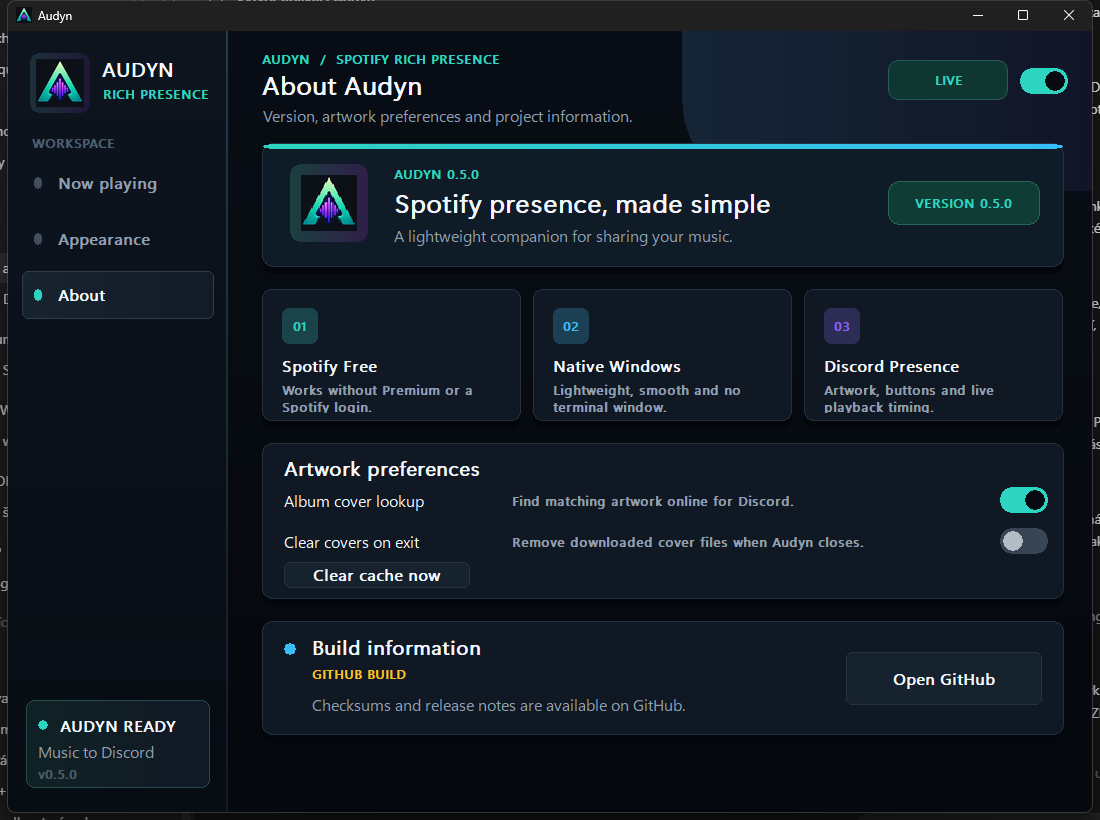
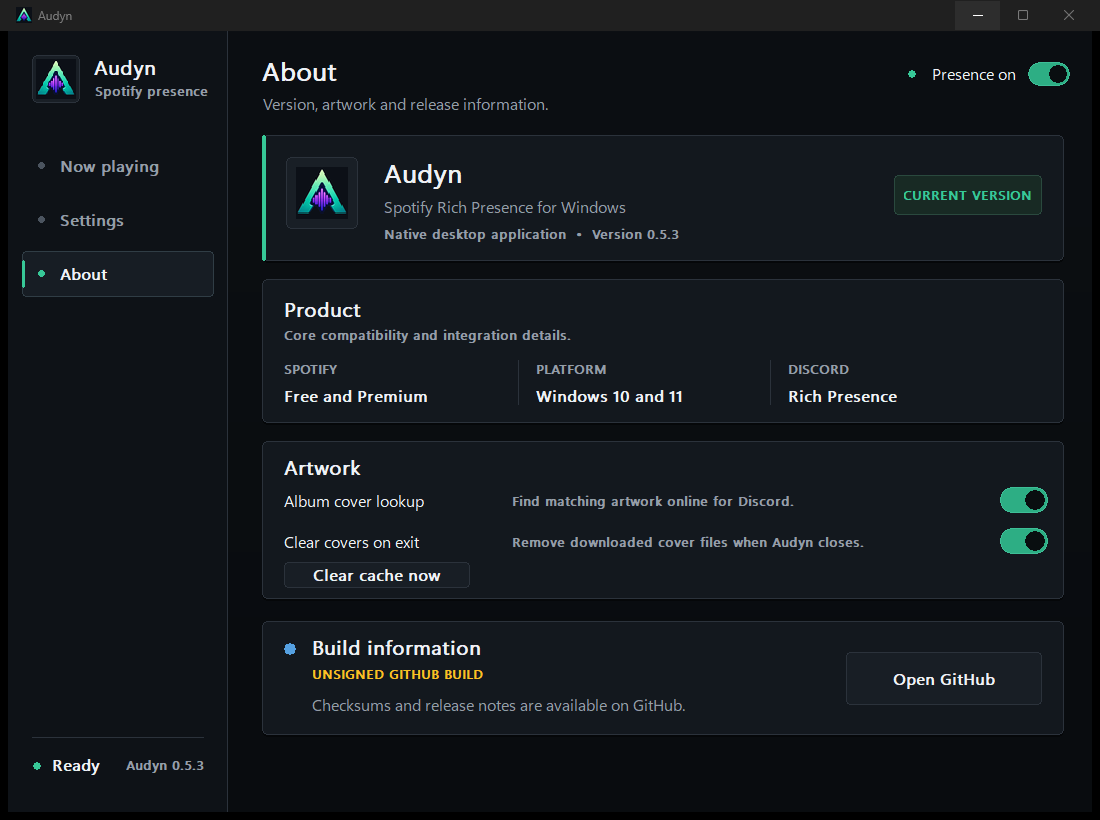
Add files via upload

diff --git a/LICENSE.md b/LICENSE.md
@@ -1,0 +1,117 @@
+# Audyn Proprietary Software License Agreement
+
+**License version 1.0 — effective 9 August 2026**  
+**Applies to Audyn 0.5.3 and later unless a release includes different terms**
+
+Copyright © 2026 rookeudev. All rights reserved.
+
+This is a proprietary license, not an open-source license. By downloading, installing, copying, executing, or otherwise using Audyn (the **Software**), you agree to these terms. If you do not agree, do not use the Software and delete every copy in your possession.
+
+## 1. Licensor and official project
+
+The licensor and copyright holder is **rookeudev** (the **Licensor**). The official project location is:
+
+<https://github.com/rookeudev/AUDYN>
+
+The Software includes the Audyn executable, user interface, artwork, logo, name, documentation, release archives, and any accompanying proprietary materials.
+
+## 2. Limited permission to use
+
+Subject to this agreement, the Licensor grants you a limited, personal, non-exclusive, non-transferable, non-sublicensable, and revocable license to:
+
+- download an official compiled release;
+- install and run the Software on Windows devices you control;
+- make one reasonable backup copy for your own use; and
+- publish truthful reviews or screenshots that do not misrepresent authorship, ownership, affiliation, or endorsement.
+
+No ownership right is transferred to you.
+
+## 3. Ownership and attribution
+
+Audyn and all associated intellectual-property rights remain the exclusive property of the Licensor and applicable third-party rightsholders.
+
+You must not:
+
+- claim, imply, or present Audyn, its design, code, logo, documentation, or releases as your own work;
+- claim to be the author, owner, official maintainer, publisher, or representative of Audyn;
+- remove, hide, replace, or falsify copyright, authorship, license, signature, version, repository, or attribution notices;
+- use the Audyn name, logo, visual identity, Discord Application ID, or substantially similar branding to impersonate the official project; or
+- suggest that a modified, repackaged, or unofficial copy is an official Audyn release.
+
+No trademark or branding license is granted except for the limited factual references allowed by this agreement.
+
+## 4. Prohibited copying and distribution
+
+Without prior written permission from the Licensor, you must not:
+
+- redistribute, mirror, re-upload, publish, bundle, repackage, sell, rent, lease, sublicense, or commercially exploit the Software;
+- include the Software in another product, installer, download portal, repository, application bundle, or commercial service;
+- distribute a modified executable, altered archive, removed license, changed checksum, or misleadingly renamed copy; or
+- provide the Software to another person as though you created, licensed, verified, or maintain it.
+
+Linking to the official repository or official release page is permitted.
+
+## 5. Source code, reverse engineering, and circumvention
+
+The source code and private build infrastructure are unpublished confidential proprietary materials. Receiving a compiled executable does not grant access to or rights in the source code.
+
+Except to the limited extent that applicable mandatory law expressly permits and does not allow contractual restriction, you must not:
+
+- reverse engineer, decompile, disassemble, decode, translate, reconstruct, or attempt to derive source code, algorithms, private build configuration, embedded identifiers, or non-public implementation details;
+- attach a debugger, instrument the process, dump protected runtime state, patch instructions, alter memory, hook functions, or use automated analysis for the purpose of deriving source code or defeating protections;
+- bypass, disable, remove, test for the purpose of circumvention, or interfere with integrity checks, process mitigations, advertisement filtering, fixed destinations, application identity, signature checks, or other technical restrictions;
+- extract or reuse proprietary assets, branding, embedded configuration, or implementation details in another project; or
+- use information obtained through prohibited analysis to create, market, or distribute a substantially similar or misleadingly compatible copy.
+
+Nothing in this agreement removes a lawful user's non-waivable rights. In particular, where mandatory law permits limited observation, testing, backup, error correction, or decompilation strictly necessary to achieve interoperability, those rights remain available only within the conditions and limits imposed by that law. This exception does not permit plagiarism, impersonation, redistribution, creation of an infringing substitute, or use beyond the lawful purpose.
+
+## 6. Runtime integrity events and local diagnostics
+
+Audyn may use process protections and local diagnostics to protect its operation. When technically detectable while the Software is running, events such as an attached debugger, runtime interference, integrity failure, unexpected modification, or a crash caused by tampering may be recorded locally with a timestamp and a general event category.
+
+These records:
+
+- are stored only in Audyn's local diagnostic files under `%LOCALAPPDATA%\Audyn`;
+- are not automatically transmitted to the Licensor;
+- do not intentionally include Spotify track titles, artist names, album names, passwords, or account tokens; and
+- may be provided to the Licensor only if the user chooses to share them for support or investigation.
+
+An offline copy of an executable cannot reliably detect that it is being inspected, copied, or decompiled. Audyn does not claim that every prohibited attempt can be detected or recorded. The absence of a record does not grant permission to violate this agreement.
+
+See [PRIVACY.md](PRIVACY.md) for the complete data-handling description.
+
+## 7. No account authority
+
+This license does not authorize anyone to request Audyn users' Spotify credentials, Discord credentials, OAuth tokens, passwords, personal data, or payment information. You must not use the Audyn name or branding for phishing, impersonation, credential collection, malware, surveillance, or any unlawful activity.
+
+## 8. Updates, availability, and termination
+
+The Licensor may update, replace, or discontinue the Software and may release future versions under revised terms. New terms do not retroactively change a copy that was distributed under a different accompanying license unless applicable law and a valid agreement allow that change.
+
+Your permission terminates automatically if you breach this agreement. Upon termination, you must stop using the Software and delete all copies under your control, except where retention is required by law.
+
+## 9. Third-party services
+
+Spotify, Discord, Deezer, Microsoft, GitHub, and other third parties operate under their own terms. This agreement grants no rights in their names, services, APIs, trademarks, or content. Audyn is independent and is not affiliated with, certified by, sponsored by, or endorsed by those parties.
+
+## 10. Disclaimer of warranty
+
+To the maximum extent permitted by applicable law, the Software is provided **“as is”** and **“as available,”** without warranties of any kind, whether express, implied, or statutory. The Licensor does not guarantee uninterrupted operation, compatibility, availability, error-free behavior, complete advertisement detection, or fitness for a particular purpose. Mandatory consumer rights remain unaffected.
+
+## 11. Limitation of liability
+
+To the maximum extent permitted by applicable law, the Licensor is not liable for indirect, incidental, special, consequential, or punitive damages, loss of data, loss of profits, account action by a third party, service interruption, or damage arising from misuse, unauthorized modification, unofficial redistribution, or inability to use the Software. Liability that cannot lawfully be excluded remains subject to applicable law.
+
+## 12. Governing law, severability, and entire agreement
+
+This agreement is governed by the laws of the Czech Republic, without removing mandatory consumer protections or non-waivable rights that apply to you. If a provision is held unenforceable, it will be limited or removed only to the minimum extent necessary, and the remaining provisions will continue in effect.
+
+This agreement and the documents it incorporates are the entire license for the accompanying proprietary release. A waiver or additional permission is valid only when provided in writing by the Licensor.
+
+## 13. Permissions and contact
+
+Requests for redistribution, commercial use, integration, source access, branding permission, or another license must be made through the official project:
+
+<https://github.com/rookeudev/AUDYN>
+
+**SPDX identifier:** `LicenseRef-Audyn-Proprietary-1.0`

diff --git a/README.md b/README.md
@@ -10,7 +10,7 @@
 </p>
 
 <p align="center">
-  <img alt="Audyn 0.5.2" src="https://img.shields.io/badge/Audyn-0.5.2-2DD4BF?style=flat-square">
+  <img alt="Audyn 0.5.3" src="https://img.shields.io/badge/Audyn-0.5.3-2DD4BF?style=flat-square">
   <img alt="Windows 10 and 11" src="https://img.shields.io/badge/Windows-10%20%7C%2011-177DDC?style=flat-square&logo=windows11&logoColor=white">
   <img alt="Spotify Free" src="https://img.shields.io/badge/Spotify-Free%20%7C%20Premium-1DB954?style=flat-square&logo=spotify&logoColor=white">
   <img alt="Discord Rich Presence" src="https://img.shields.io/badge/Discord-Rich%20Presence-5865F2?style=flat-square&logo=discord&logoColor=white">
@@ -23,6 +23,8 @@
   <a href="#quick-start">Quick start</a>
   ·
   <a href="#troubleshooting">Troubleshooting</a>
+  ·
+  <a href="LICENSE.md">License</a>
 </p>
 
 ---
@@ -38,9 +40,9 @@ It works with both **Spotify Free and Spotify Premium**, runs quietly in the sys
 </p>
 
 <details>
-  <summary><strong>Appearance controls</strong></summary>
+  <summary><strong>Professional settings</strong></summary>
   <br>
-  <p align="center"><img src="docs/audyn-settings.png" width="900" alt="Audyn appearance settings"></p>
+  <p align="center"><img src="docs/audyn-settings.png" width="900" alt="Audyn settings"></p>
 </details>
 
 <details>
@@ -57,19 +59,19 @@ It works with both **Spotify Free and Spotify Premium**, runs quietly in the sys
 - **Useful buttons:** fixed links to the official Audyn GitHub repository and the current track on Spotify.
 - **Accurate timing:** seeking or restarting the same track resynchronizes the Discord timer.
 - **Advertisement filtering:** Audyn rejects localized ad metadata, locked advertising sessions and every Spotify item up to 90 seconds, then immediately clears Discord activity.
-- **Personal appearance:** choose which fields are displayed and customize both Presence text lines.
-- **Smooth native UI:** animated hover states, responsive controls and a modern dark design.
+- **Consistent identity:** the track title, artist, album artwork and official destinations cannot be rewritten in settings.
+- **Professional native UI:** restrained hover states, responsive controls and a clean dark design.
 - **Background mode:** minimize to the Windows tray and optionally start with Windows.
 - **Start Menu entry:** after the first launch, search for `Audyn` from the Windows Start menu.
 - **Lightweight build:** native C++20, no Electron runtime and no console window.
 
 ## Quick start
 
-1. Download `Audyn-0.5.2-win64.zip` from the [latest release](../../releases/latest).
+1. Download `Audyn-0.5.3-win64.zip` from the [latest release](../../releases/latest).
 2. Extract the ZIP to a folder you trust.
 3. Open the Spotify and Discord desktop applications.
 4. Run `Audyn.exe` once and play a song in Spotify.
-5. Keep the switch in the top-right corner set to **LIVE**.
+5. Keep the switch in the top-right corner set to **Presence on**.
 
 That is all. Audyn creates a per-user Start Menu shortcut automatically, so future launches can be found by searching for **Audyn** in Windows. Keep the extracted folder in place so the shortcut continues to point to `Audyn.exe`.
 
@@ -85,21 +87,21 @@ flowchart LR
     A -. "optional cover lookup" .-> C["Public artwork catalog"]
 ```
 
-Audyn reads the media information that Spotify already publishes to Windows and sends the selected display fields to the Discord desktop client. It does not use the Spotify Web API for playback detection, which is why Spotify Premium is unnecessary.
+Audyn reads the media information that Spotify already publishes to Windows and sends the current track display to the Discord desktop client. It does not use the Spotify Web API for playback detection, which is why Spotify Premium is unnecessary.
 
 Album-cover lookup is optional. When enabled, Audyn searches the Deezer public catalog using the artist and track title. If a reliable match is not available, the Audyn artwork is used instead.
 
-## Personalize your Presence
+## Settings
 
-The **Appearance** page lets you choose whether Discord shows:
+The **Settings** page keeps the Discord display predictable and gives users control over real application behavior:
 
-- track title;
-- artist;
-- album;
-- playback progress;
-- paused tracks.
+- track title is always the primary Presence line;
+- artist is always the secondary Presence line;
+- the matched album cover is used as artwork when available;
+- playback progress and paused-track visibility can be enabled or disabled;
+- Start with Windows and minimize-to-tray behavior can be configured.
 
-You can also customize the main and secondary lines with `{track}`, `{artist}` and `{album}`. The Discord Application ID, GitHub destination, Spotify-track button behavior and advertisement filtering are part of the official build and cannot be edited in the app.
+Track and artist fields, the Discord Application ID, the official GitHub destination, Spotify-track button behavior and advertisement filtering are fixed in the official build. They cannot be replaced through the interface or `settings.ini`.
 
 ## Privacy and security
 
@@ -120,7 +122,7 @@ Many Spotify and Discord integrations use OAuth to connect a user's accounts. OA
 
 Compared with an application that holds no account authorization, a connected integration creates another credential and another service that must be trusted and protected. If its token, storage, redirect flow, or backend is exposed or compromised, an unauthorized person may be able to use the permissions granted to that integration. This can make access to personal account data easier than when no third-party account permission exists at all.
 
-Audyn avoids that additional access path. It does not open a Spotify or Discord authorization page, receive access or refresh tokens, store account credentials, or operate a remote account-linking server. It reads only the Now Playing information exposed locally by Spotify to Windows and sends the selected Presence fields to the locally running Discord desktop client.
+Audyn avoids that additional access path. It does not open a Spotify or Discord authorization page, receive access or refresh tokens, store account credentials, or operate a remote account-linking server. It reads only the Now Playing information exposed locally by Spotify to Windows and sends the current Presence display to the locally running Discord desktop client.
 
 > [!NOTE]
 > This is not a claim that every connected application is dangerous. It explains why Audyn requests no account access when local Rich Presence can work without it.
@@ -133,6 +135,7 @@ Official release files are published through [rookeudev/AUDYN Releases](../../re
 
 ```text
 Audyn.exe
+LICENSE.txt
 README.txt
 SHA256SUMS.txt
 SIGNATURE-STATUS.txt
@@ -160,7 +163,7 @@ The Spotify web player and Discord web client are not supported because they do 
 ### Discord does not show the activity
 
 - Confirm that Spotify and Discord are the desktop applications.
-- Check that the top-right Audyn switch says **LIVE**.
+- Check that the top-right Audyn switch says **Presence on**.
 - Enable activity sharing in Discord under **User Settings → Activity Privacy**.
 - Start a track; if Discord was opened later, restart Audyn once.
 
@@ -183,6 +186,12 @@ Audyn is prepared for Authenticode signing and a future Microsoft Store submissi
 ## Public repository contents
 
 This repository publishes product documentation, screenshots and compiled release artifacts. The private source and build infrastructure are not included. Compiling code does not make reverse engineering impossible, so users should rely on release checksums and a valid publisher signature where available—not on claims of absolute source protection.
+
+## Proprietary license
+
+Audyn is proprietary software, not an open-source project. You may use the official compiled release under the [Audyn Proprietary Software License Agreement](LICENSE.md). The license prohibits claiming Audyn as your own work, removing attribution, unofficial redistribution, impersonating the official project, and attempting to derive or reuse its private source code except where mandatory law provides a non-waivable exception.
+
+Technically detectable runtime debugger attachment is recorded only in local Audyn diagnostics. Audyn does not secretly upload those records and cannot reliably detect offline analysis of a copied executable. See the license and [privacy notice](PRIVACY.md) for the exact limits.
 
 ## Technical references
 

diff --git a/PRIVACY.md b/PRIVACY.md
@@ -14,13 +14,13 @@ This information is processed in memory so Audyn can draw its interface and prep
 
 Rich Presence is sent to the Discord desktop application through Discord's local RPC named pipe. Audyn does not call the Discord account API and does not operate a remote presence server.
 
-The displayed Presence can contain the current track title, artist, album, playback time, a public artwork URL, and fixed buttons. Visibility to other Discord users is controlled by Discord and by the Presence controls in Audyn.
+The displayed Presence can contain the current track title, artist, album artwork, playback time, a public artwork URL, and fixed buttons. Track and artist placement is fixed by Audyn; users can disable the complete Presence, its timer, or paused-track display. Visibility to other Discord users is also controlled by Discord.
 
 ## Optional online artwork lookup
 
 When **Optional cover lookup** is enabled, Audyn sends the current artist and track title to Deezer's public search endpoint over HTTPS. Audyn uses the response only to find a public album-cover URL. Results are accepted only from the approved `dzcdn.net` image domain and only after metadata matching.
 
-This feature can be disabled at any time in **Privacy center**. With it disabled, Audyn continues to work but Discord may show the Audyn artwork instead of the album cover.
+This feature can be disabled at any time under **About**. With it disabled, Audyn continues to work but Discord may show the Audyn artwork instead of the album cover.
 
 ## Advertising metadata
 
@@ -34,7 +34,9 @@ Audyn stores settings, operational diagnostics, and cached artwork under:
 %LOCALAPPDATA%\Audyn\
 ```
 
-Version 0.5.0 does not write track titles, artist names, or album names to diagnostic logs. Logs are size-limited and rotated. Cached covers can be cleared immediately or automatically when Audyn exits.
+Audyn 0.5.3 does not write track titles, artist names, or album names to diagnostic logs. Logs are size-limited and rotated. Cached covers can be cleared immediately or automatically when Audyn exits.
+
+Starting with version 0.5.3, a technically detectable runtime debugger or inspection attachment may add a generic security event to the same local log. The event contains a timestamp and category, not media metadata or account credentials. It is not automatically transmitted to the developer. Offline analysis of a copied executable cannot be reliably detected or recorded.
 
 ## Telemetry and sale of data
 
@@ -42,9 +44,8 @@ Audyn contains no analytics SDK, advertising SDK, crash-upload service, user pro
 
 ## User controls
 
-Users can disable Rich Presence, hide individual metadata fields, disable the online cover lookup, hide Presence while paused, clear cached covers, or remove all Audyn local data by deleting `%LOCALAPPDATA%\Audyn` after closing the application.
+Users can disable Rich Presence, disable playback timing, disable the online cover lookup, hide Presence while paused, clear cached covers, or remove all Audyn local data by deleting `%LOCALAPPDATA%\Audyn` after closing the application. Individual track and artist fields are not editable in the official build.
 
 ## Third-party services
 
 Spotify, Discord, Deezer, Microsoft, and GitHub operate under their own terms and privacy notices. Audyn is an independent project and is not affiliated with or endorsed by those companies.
-

diff --git a/SECURITY.md b/SECURITY.md
@@ -10,6 +10,8 @@ Audyn provides Discord Rich Presence without creating an account bridge between 
 
 Audyn is designed to limit the consequences of a compromised integration because it never obtains account-level credentials in the first place.
 
+Version 0.5.3 can record a generic local diagnostic event when Windows reports a debugger attached to the running Audyn process. This is a limited runtime signal, not surveillance: it is not uploaded, contains no track metadata, can have false positives, and cannot detect offline inspection or decompilation of a copied executable.
+
 ## Trust boundaries
 
 Audyn interacts with:
@@ -45,7 +47,7 @@ The Discord Application ID is public application metadata, not a secret. It and 
 - Cached downloads must have an image content type and recognized PNG, JPEG, or WebP signature.
 - Files are written to a temporary cache file and renamed only after a complete download.
 
-Users can disable all public artwork lookups from **Privacy center**.
+Users can disable all public artwork lookups from **About**.
 
 ## Local privacy controls
 
@@ -53,7 +55,7 @@ Users can disable all public artwork lookups from **Privacy center**.
 - Log messages are sanitized, size-limited, and rotated at 512 KiB.
 - Artwork cache is bounded and can be cleared immediately or on every exit.
 - Advertisement metadata is filtered before cover lookup or Presence publication.
-- Settings templates and media fields have character limits and unsafe control characters removed.
+- Presence metadata is sanitized, length-limited, and mapped to fixed track and artist fields.
 
 ## Process and binary hardening
 
@@ -76,7 +78,7 @@ Audyn also limits Discord RPC frames and uses security-quality-of-service flags 
 
 ## Signing and Microsoft certification
 
-Audyn verifies its own Authenticode trust status and displays it in **Privacy center**. **SIGNING PENDING** is not a Microsoft certification. **AUTHENTICODE VERIFIED** means Windows validated a trusted publisher signature on that exact executable; it does not mean Microsoft Store certification unless the package was actually approved and distributed through the Store.
+Audyn verifies its own Authenticode trust status and displays it under **About → Build information**. **GITHUB BUILD** is not a Microsoft certification. **SIGNED BUILD** means Windows validated a trusted publisher signature on that exact executable; it does not mean Microsoft Store certification unless the package was actually approved and distributed through the Store.
 
 See [MICROSOFT-TRUST.md](MICROSOFT-TRUST.md) for the accurate release and certification process.
 
@@ -89,7 +91,7 @@ Native software cannot be made impossible to reverse engineer. Obfuscation and s
 ## Known limits
 
 - A malicious process already running as the same Windows user can observe local application activity.
-- Discord receives the Presence fields the user enables and applies its own visibility settings.
+- Discord receives the current track display while Presence is enabled and applies its own visibility settings.
 - Enabling online artwork search discloses artist and track title to Deezer.
 - Advertisement detection is heuristic because Windows exposes media metadata, not Spotify's advertising classification API.
 - Code signing proves publisher identity and file integrity; it does not prove the absence of vulnerabilities.

diff --git a/MICROSOFT-TRUST.md b/MICROSOFT-TRUST.md
@@ -2,7 +2,7 @@
 
 ## Current status
 
-Audyn 0.5.2 is prepared for Authenticode signing and Microsoft Store submission, but a build must not be described as **Microsoft certified**, **Microsoft signed**, or **verified publisher** unless that exact build has completed the corresponding external process.
+Audyn 0.5.3 is prepared for Authenticode signing and Microsoft Store submission, but a build must not be described as **Microsoft certified**, **Microsoft signed**, or **verified publisher** unless that exact build has completed the corresponding external process.
 
 The application checks its own executable signature and displays the result under **About → Build information**:
 
